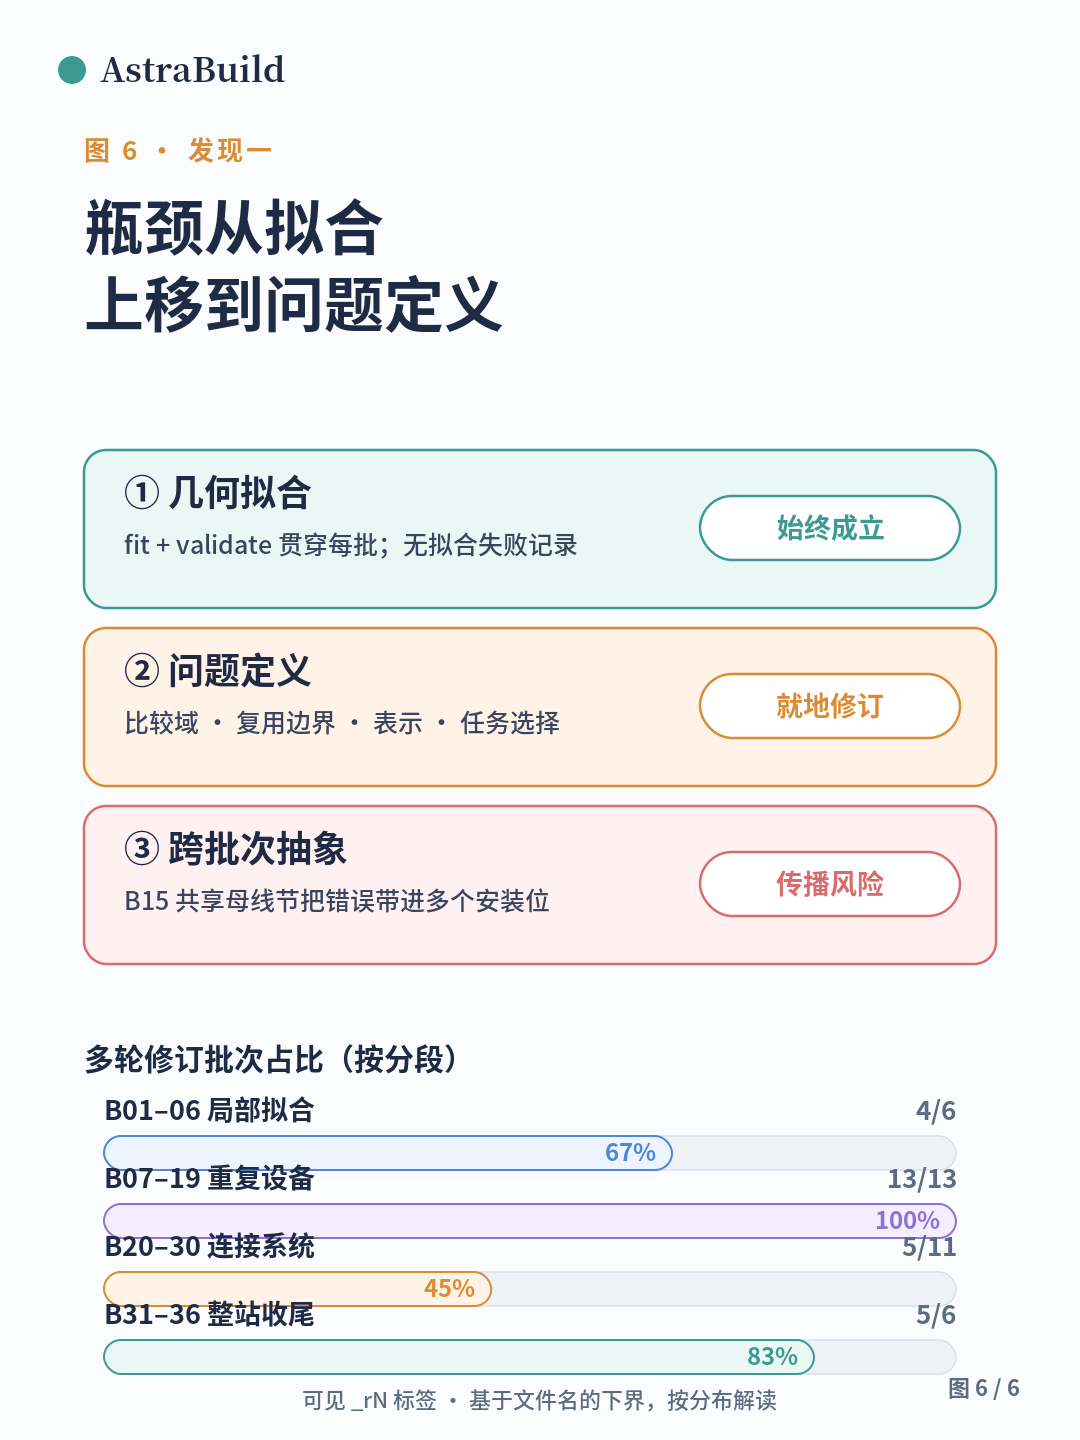
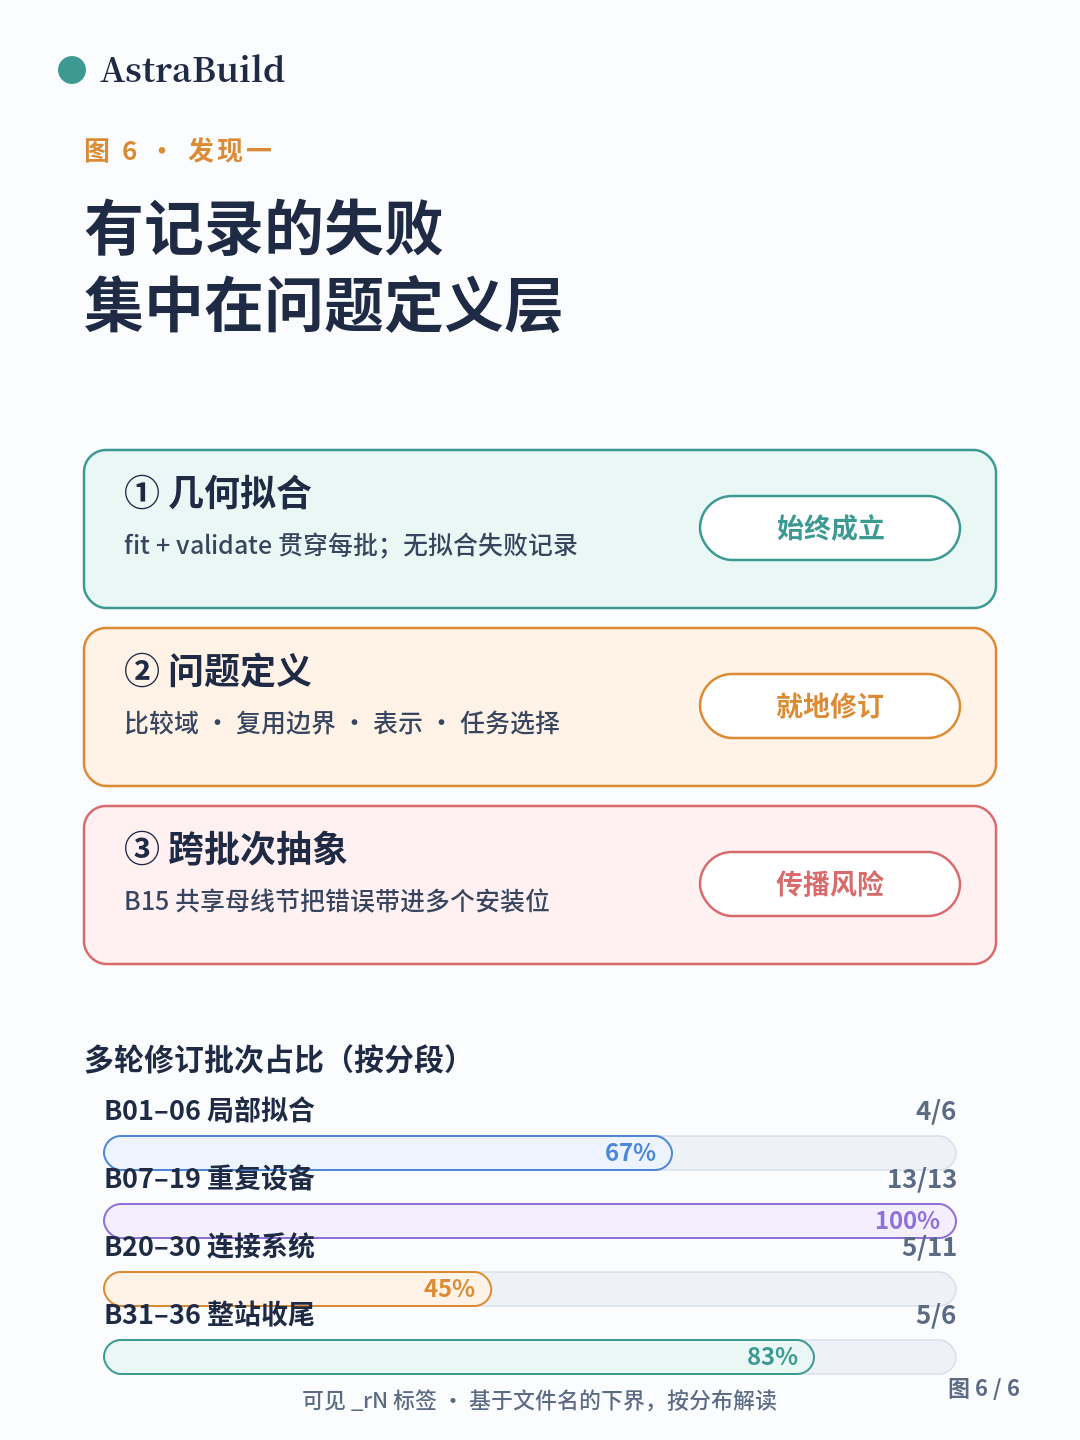
Align fig06 xhs card title with moderated Finding 1

Changed region(s): [[0.0611, 0.125, 0.4278, 0.25], [0.4583, 0.1875, 0.5194, 0.25]]

diff --git a/social/build_xhs_cards.py b/social/build_xhs_cards.py
@@ -517,7 +517,7 @@ def fig05_vertical():
 
 
 def fig06_vertical():
-    svg = card_shell("图 6 · 发现一", "瓶颈从拟合\n上移到问题定义", ORANGE)
+    svg = card_shell("图 6 · 发现一", "有记录的失败\n集中在问题定义层", ORANGE)
     y = 450
     ladder(svg, y, "① 几何拟合", "始终成立", "fit + validate 贯穿每批；无拟合失败记录", TEAL, SOFT_TEAL)
     ladder(svg, y + 178, "② 问题定义", "就地修订", "比较域 · 复用边界 · 表示 · 任务选择", ORANGE, SOFT_ORANGE)
